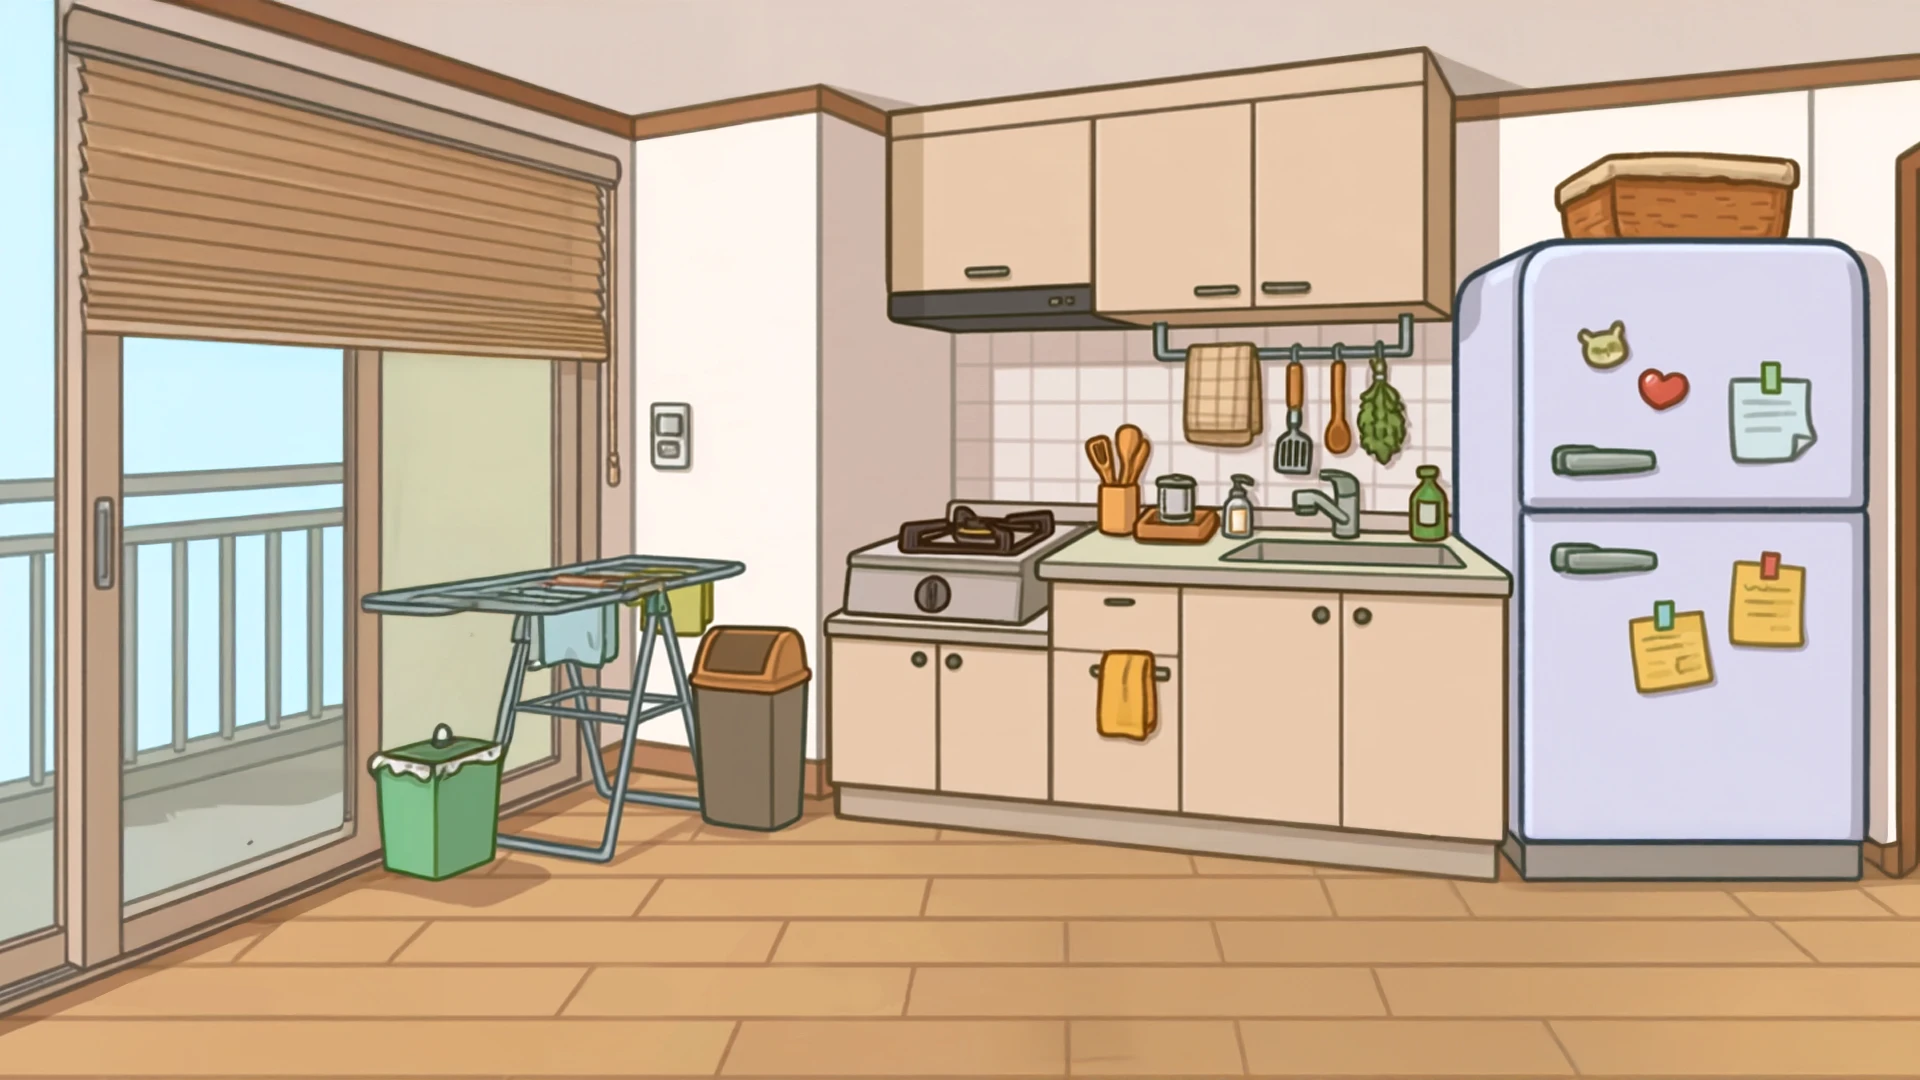
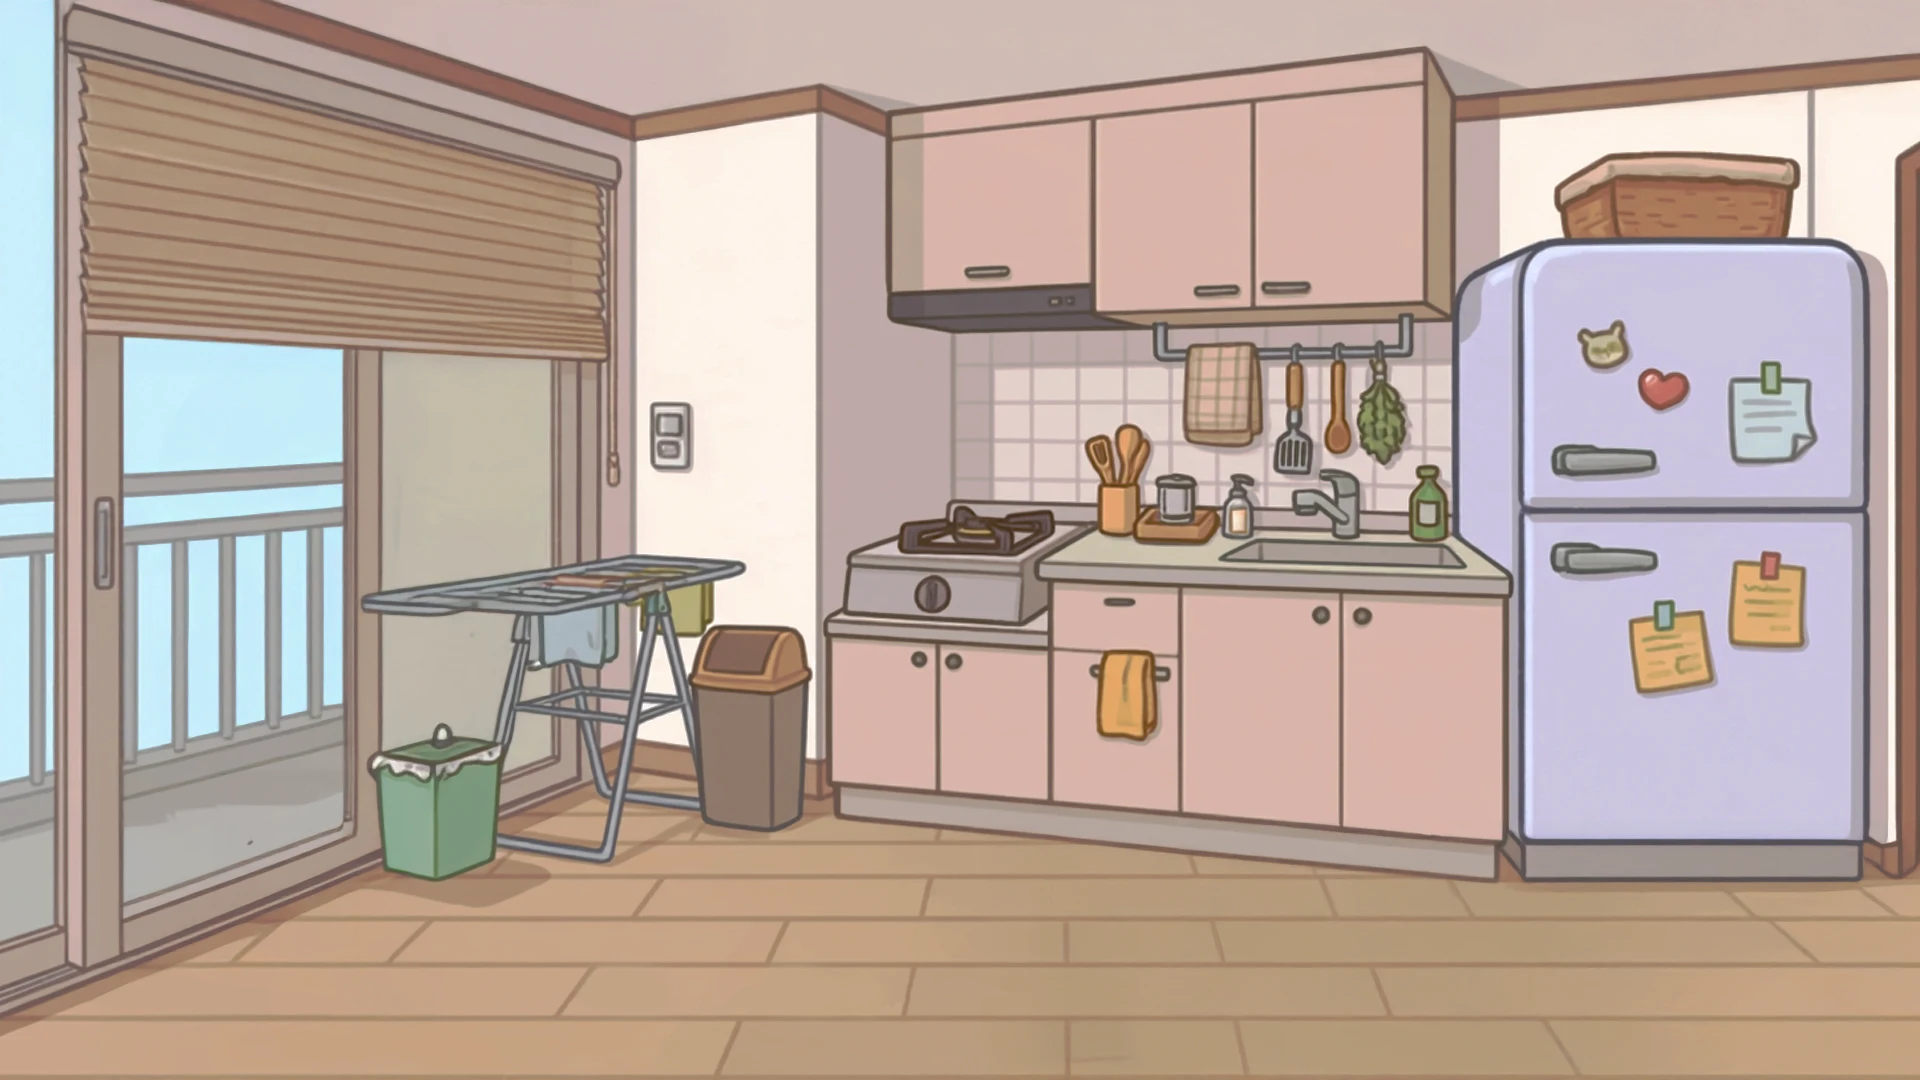
[조리·로비] 로비 배경 교체, 칭호 글자 위치 조정, 간 맞추기·시간 감점 틀 추가
- lobby_bg: 새 로비 배경 적용 (냉장고 위치는 lobby_fridge와 같은 자리)
- Lobby: 칭호 말풍선 글자 x 31 → 41
- Cook: partial class로 변경, 만족도에 간 보정(SeasonDelta)과 시간 감점(TimePenalty) 반영
- Cook.Season.cs: 간 맞추기 선택지, 정답, 판정 틀 (화면 미연결, 보정은 0)
- Cook.Time.cs: 방식별 제한 시간, 초과 감점 계산 틀 (임시 수치, BalanceData 이동 필요)

diff --git a/Assets/Scripts/Cook.Season.cs b/Assets/Scripts/Cook.Season.cs
@@ -1,0 +1,57 @@
+using System.Collections.Generic;
+using System.Linq;
+
+// 간 맞추기 (docs/29). 조리가 끝난 뒤 간 선택지 네 개 중 하나를 고른다.
+// 이 파일은 판정만 맡는다. 화면(패널, 어두운 막, 키 입력)은 유초윤 님이 맡는다.
+// 수치는 아직 BalanceData에 없으므로 아래 임시값을 쓴다. 확정되면 Balance로 옮긴다.
+public enum SeasonOption { Salt, Pepper, SoySauce, Sugar, Gochugaru, SoupSoy }
+
+public partial class Cook
+{
+    // 임시값 (docs/29 제안). TODO: BalanceData로 옮기고 Balance에서 읽는다.
+    const float SeasonGainCorrect = 10f;   // 정답일 때 맛 점수 가산
+    const float SeasonLossWrong = 10f;     // 오답일 때 맛 점수 감산
+
+    public SeasonOption[] SeasonChoices { get { return ChoicesOf(m == null ? Method.Grill : m.id); } }
+    public SeasonOption? SeasonPicked { get; private set; }
+    public bool SeasonDone { get { return SeasonPicked.HasValue; } }
+    // 간 고르기 결과 보정 (고르기 전에는 0). 만족도 계산에 더한다.
+    public float SeasonDelta { get; private set; }
+
+    // 방식별 네 개 선택지 (docs/29 제안, 미확정)
+    public static SeasonOption[] ChoicesOf(Method id)
+    {
+        switch (id)
+        {
+            case Method.Grill: return new[] { SeasonOption.Salt, SeasonOption.Pepper, SeasonOption.SoySauce, SeasonOption.Sugar };
+            case Method.Stirfry: return new[] { SeasonOption.SoySauce, SeasonOption.Sugar, SeasonOption.Salt, SeasonOption.Gochugaru };
+            case Method.Boil: return new[] { SeasonOption.SoupSoy, SeasonOption.Gochugaru, SeasonOption.Salt, SeasonOption.Pepper };
+            default: return new[] { SeasonOption.Salt, SeasonOption.Pepper, SeasonOption.SoySauce, SeasonOption.Sugar };
+        }
+    }
+
+    // 정답 (docs/29 제안, 미확정). 끓이기는 재료에 따라 정답이 바뀐다.
+    public SeasonOption SeasonAnswer()
+    {
+        var names = items == null ? new List<string>() : items.Select(i => i.ing.name).ToList();
+        switch (m == null ? Method.Grill : m.id)
+        {
+            case Method.Grill: return SeasonOption.Salt;
+            case Method.Stirfry: return SeasonOption.SoySauce;
+            case Method.Boil:
+                // 김치가 들어가면 고춧가루, 두부나 달걀이 들어가면 국간장 (docs/29 제안)
+                if (names.Contains("김치")) return SeasonOption.Gochugaru;
+                return SeasonOption.SoupSoy;
+            default: return SeasonOption.Salt;
+        }
+    }
+
+    // 선택지를 고른다. 한 번 고르면 바꿀 수 없다. 맛 보정량을 돌려준다 (가산은 +, 감산은 -).
+    public float PickSeason(SeasonOption choice)
+    {
+        if (SeasonDone) return 0f;
+        SeasonPicked = choice;
+        SeasonDelta = choice == SeasonAnswer() ? SeasonGainCorrect : -SeasonLossWrong;
+        return SeasonDelta;
+    }
+}

diff --git a/Assets/Scripts/Cook.Time.cs b/Assets/Scripts/Cook.Time.cs
@@ -1,0 +1,33 @@
+// 조리 시간 감점 (docs/30). 제한 시간을 넘기면 1초마다 맛 점수를 깎는다.
+// 이 파일은 계산만 맡는다. 타이머 표시와 강조는 유초윤 님이 맡는다.
+// 수치는 아직 BalanceData에 없으므로 아래 임시값을 쓴다. 확정되면 Balance로 옮긴다.
+public partial class Cook
+{
+    // 임시값 (docs/30 제안). TODO: BalanceData로 옮기고 Balance에서 읽는다.
+    const float PenaltyPerSecond = 0.5f;   // 초과 1초당 맛 점수 감점
+    const float PenaltyCap = 30f;          // 감점 상한
+
+    // 방식별 제한 시간 (초, docs/30 제안, 미확정)
+    public float TimeLimit
+    {
+        get
+        {
+            switch (m == null ? Method.Grill : m.id)
+            {
+                case Method.Grill: return 40f;
+                case Method.Stirfry: return 35f;
+                case Method.Boil: return 50f;
+                default: return 40f;
+            }
+        }
+    }
+
+    // 제한 시간을 넘긴 초
+    public float OverTime { get { return t > TimeLimit ? t - TimeLimit : 0f; } }
+
+    // 지금까지 쌓인 감점 (상한 적용). 간 고르기 시간은 포함하지 않는다 (조리 완료 전까지만 센다).
+    public float TimePenalty
+    {
+        get { return System.Math.Min(OverTime * PenaltyPerSecond, PenaltyCap); }
+    }
+}

diff --git a/Assets/Scripts/Cook.cs b/Assets/Scripts/Cook.cs
@@ -19,7 +19,7 @@ public class CookItem
     public float coef;
 }
 
-public class Cook
+public partial class Cook
 {
     public CookItem[] items;
     public MethodDef m;
@@ -197,7 +197,8 @@ public class Cook
         float avg = sum / plated.Length;
         // 재료 2개를 섞어 모두 성공시키면 보너스
         if (plated.Length >= 2 && plated.All(it => it.ok)) avg *= 1f + Balance.MixBonus;
-        return Mathf.Min(100, Mathf.RoundToInt(avg));
+        avg += SeasonDelta - TimePenalty; // 간 고르기 보정(docs/29)과 시간 초과 감점(docs/30). 고르기 전이면 보정은 0
+        return Mathf.Clamp(Mathf.RoundToInt(avg), 0, 100);
     }
 
     // 익힘 5단계. 색이 서서히 변하지 않고 단계가 바뀔 때 한 번에 바뀐다. 기준은 꺼내기 판정(Judge)과 같다.

diff --git a/Assets/Scripts/Lobby.cs b/Assets/Scripts/Lobby.cs
@@ -42,7 +42,7 @@ public static class Lobby
         // 글자는 말풍선의 자식이라 말풍선과 함께 움직인다. 글자 칸은 말풍선 안쪽(시안 600~895, 437~522)
         if (tagPiece != null)
         {
-            var tag = LabelIn(tagPiece, 310, 110, rep == null ? "칭호 없음" : rep.name, 31, 33, 251, 64, 34, Color.white);
+            var tag = LabelIn(tagPiece, 310, 110, rep == null ? "칭호 없음" : rep.name, 41, 33, 251, 64, 34, Color.white);
             tagText = tag;
             var o = tag.gameObject.AddComponent<Outline>();
             o.effectColor = new Color(0.78f, 0.36f, 0.27f);
